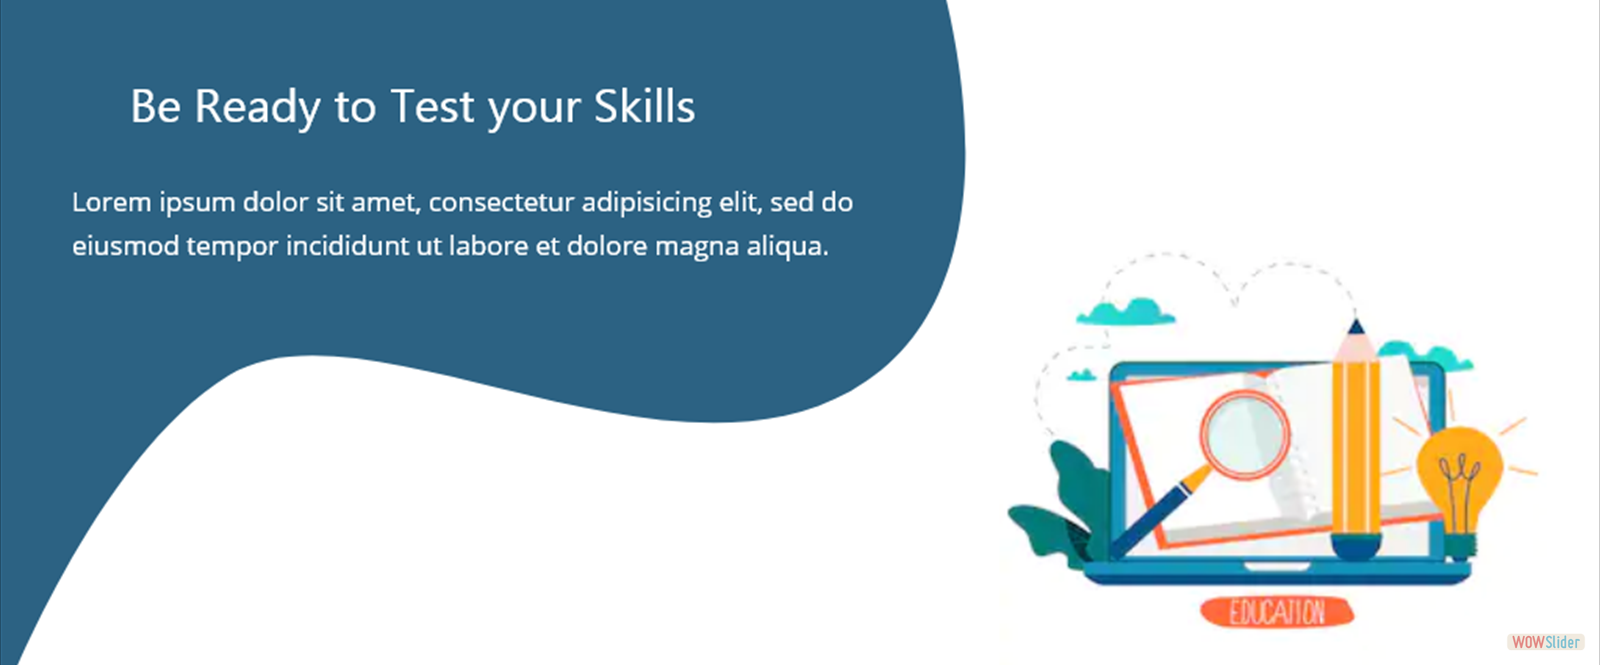
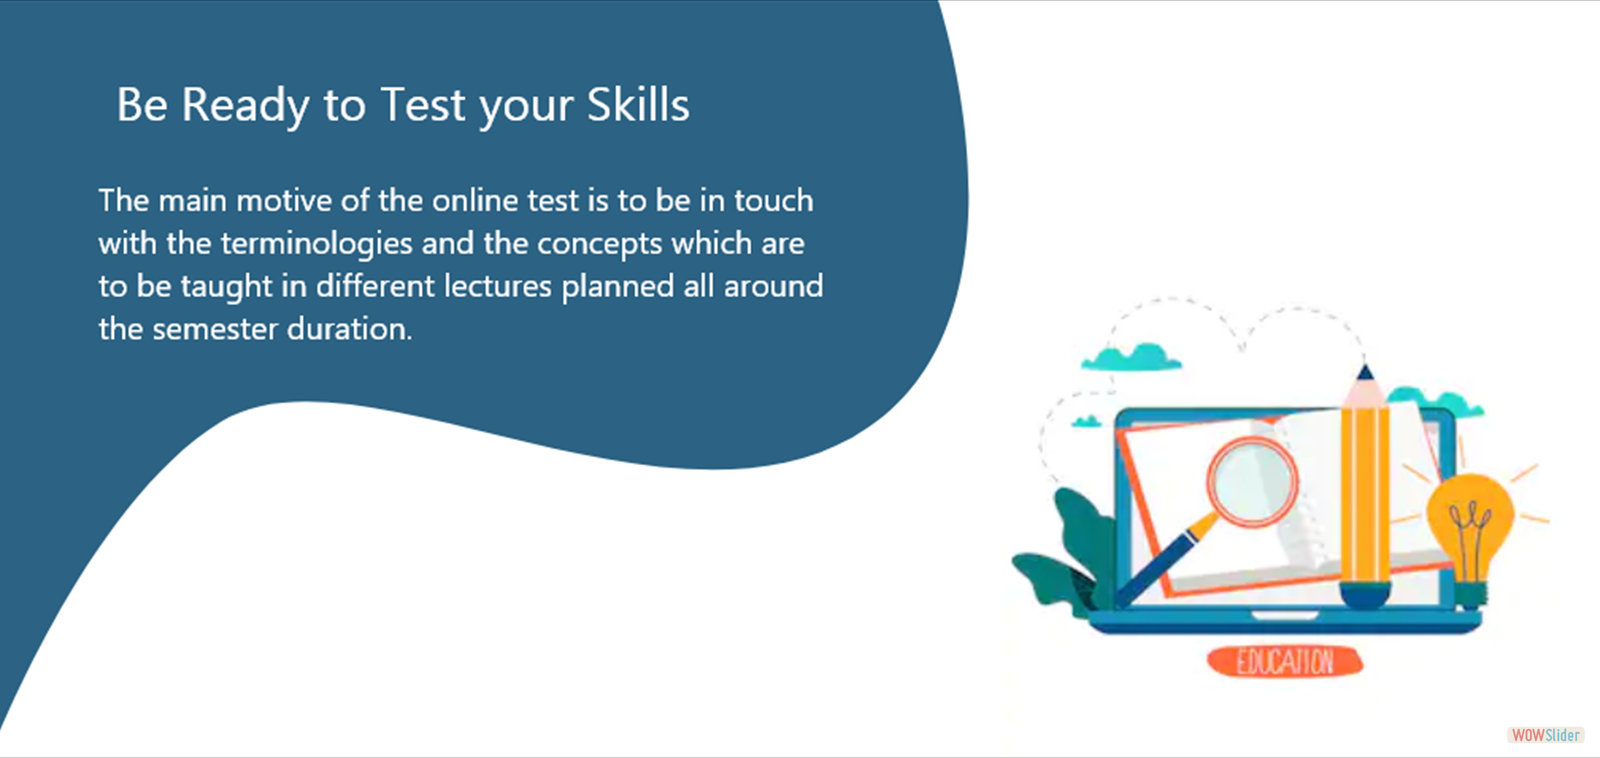
final updates

diff --git a/assets/engine2/style.css b/assets/engine2/style.css
@@ -17,12 +17,12 @@
[1 lines of base64/hex data omitted]
 }
 #wowslider-container2 { 
-	display: table;
+	display: block;
 	zoom: 1; 
 	position: relative;
 	width: 100%;
 	max-width: 100%;
-	max-height:550px;
+	max-height:none;
 	margin:0px auto 0px;
 	z-index:90;
 	text-align:left; /* reset align=center */
@@ -34,7 +34,7 @@
 	-moz-box-sizing: content-box;
 	box-sizing: content-box; 
 }
-* html #wowslider-container2{ width:1323px }
+* html #wowslider-container2{ width:1024px }
 #wowslider-container2 .ws_images ul{
 	position:relative;
 	width: 10000%; 
@@ -64,7 +64,7 @@
 	left:0;
 	top:0;
 	height:100%;
-	max-height:550px;
+	max-height:none;
 	max-width: 100%;
 	vertical-align: top;
 	border:none;
@@ -73,7 +73,7 @@
 #wowslider-container2 .ws_images ul a{
 	width:100%;
 	height:100%;
-	max-height:550px;
+	max-height:none;
 	display:block;
 	color:transparent;
 }
@@ -89,7 +89,7 @@
 	margin:0;
 }
 #wowslider-container2 .ws_images > div > img {
-	max-height:550px;
+	max-height:none;
 }
 
 #wowslider-container2 .ws_images iframe {
@@ -146,6 +146,123 @@
 	background: #A6A5A9;
 }
 
+
+#wowslider-container2.ws_gestures {
+	cursor: -webkit-grab;
+	cursor: -moz-grab;
[1 lines of base64/hex data omitted]
+}
+#wowslider-container2.ws_gestures.ws_grabbing {
+	cursor: -webkit-grabbing;
+	cursor: -moz-grabbing;
[1 lines of base64/hex data omitted]
+}
+
+/* hide controls when video start play */
+#wowslider-container2.ws_video_playing .ws_bullets,
+#wowslider-container2.ws_video_playing .ws_fullscreen,
+#wowslider-container2.ws_video_playing .ws_next,
+#wowslider-container2.ws_video_playing .ws_prev {
+	display: none;
+}
+
+
+/* youtube/vimeo buttons */
+#wowslider-container2 .ws_video_btn {
+	position: absolute;
+	display: none;
+	cursor: pointer;
+	top: 0;
+	left: 0;
+	width: 100%;
+	height: 100%;
+	z-index: 55;
+}
+#wowslider-container2 .ws_video_btn.ws_youtube,
+#wowslider-container2 .ws_video_btn.ws_vimeo {
+	display: block;
+}
+#wowslider-container2 .ws_video_btn div {
+	position: absolute;
+	background-image: url(./playvideo.png);
+	background-size: 200%;
+	top: 50%;
+	left: 50%;
+	width: 7em;
+	height: 5em;
+	margin-left: -3.5em;
+	margin-top: -2.5em;
+}
+#wowslider-container2 .ws_video_btn.ws_youtube div {
+	background-position: 0 0;
+}
+#wowslider-container2 .ws_video_btn.ws_youtube:hover div {
+	background-position: 100% 0;
+}
+#wowslider-container2 .ws_video_btn.ws_vimeo div {
+	background-position: 0 100%;
+}
+#wowslider-container2 .ws_video_btn.ws_vimeo:hover div {
+	background-position: 100% 100%;
+}
+
+#wowslider-container2 .ws_playpause.ws_hide {
+	display: none !important;
+}
+/* bullets */
+#wowslider-container2  .ws_bullets { 
+	padding: 0px; 
+}
+#wowslider-container2 .ws_bullets a { 
+	position:relative;
+	display: inline-block;
+	width: 0;
+	margin: 3px 5px;
+	padding: 8px;	
+
+	-webkit-perspective: 80px;
+	perspective: 80px;
+} 
+#wowslider-container2 .ws_bullets a > span {
+	position:absolute;
+	display: block;
+	top:0;
+	right: 0;
+	height:100%;
+	width:100%;
+	-webkit-transform-style: preserve-3d;
+	transform-style: preserve-3d;
+
+	-webkit-transition: -webkit-transform 0.5s ease;
+  	transition: -webkit-transform 0.5s ease, transform 0.5s ease;
+}
+
+#wowslider-container2 .ws_bullets a > span:before,
+#wowslider-container2 .ws_bullets a > span:after {
+	content: '';
+	display: block;
+	height:100%;
+	background: #54ACD2;
+
+  	-webkit-transform: rotateX(-90deg) translateZ(-8px) translateY(8px);
+  	transform: rotateX(-90deg) translateZ(-8px) translateY(8px);
+}
+#wowslider-container2 .ws_bullets a > span:after {
+	position: absolute;
+	top: 0;
+	left: 0;
+	width: 100%;
+	height: 100%;
+  	background: #1A2223;
+  	-webkit-transform: rotateX(0deg);
+  	transform: rotateX(0deg);
+}
+
+#wowslider-container2 .ws_bullets a.ws_overbull > span,
+#wowslider-container2 .ws_bullets a.ws_selbull > span {
+    -webkit-transform: rotateX(-90deg) translateZ(8px) translateY(8px);
+    transform: rotateX(-90deg) translateZ(8px) translateY(8px);
+}
 
 
 
@@ -291,7 +408,7 @@
 	display:block;
 	text-indent:0;
 	bottom:15px;
-	left:-58px;
+	left:-51px;
 	visibility:hidden;
 	max-width:none;
 }
@@ -308,7 +425,7 @@
 	left:0;
 	overflow:hidden;
 	position:relative;
-	width:115px;
+	width:101px;
 }
 #wowslider-container2  .ws_bullets .ws_bulframe{
 	position:absolute;

diff --git a/assets/engine2/script.js b/assets/engine2/script.js
@@ -18,4 +18,4 @@ jQuery.extend(jQuery.easing,{easeInOutQuart:function(e,f,a,h,g){if((f/=g/2)<1){r
 // Obfuscated by Javascript Obfuscator
 // http://javascript-source.com
 //***********************************************
-jQuery("#wowslider-container2").wowSlider({effect:"carousel",prev:"",next:"",duration:20*100,delay:20*100,width:1323,height:550,autoPlay:true,autoPlayVideo:false,playPause:true,stopOnHover:false,loop:false,bullets:1,caption:true,captionEffect:"parallax",controls:true,controlsThumb:false,responsive:2,fullScreen:false,gestures:2,onBeforeStep:0,images:0});
+jQuery("#wowslider-container2").wowSlider({effect:"carousel",prev:"",next:"",duration:20*100,delay:20*100,width:1024,height:485,autoPlay:true,autoPlayVideo:false,playPause:true,stopOnHover:false,loop:false,bullets:1,caption:true,captionEffect:"parallax",controls:true,controlsThumb:false,responsive:3,fullScreen:false,gestures:2,onBeforeStep:0,images:0});

diff --git a/index.php b/index.php
@@ -9,6 +9,7 @@ if($obj->isCookieSet()){
 	Functions::redirect('includes/dashboard.php');
 }
 else{
+
 ?>
 	<html>
 
@@ -126,19 +127,15 @@ else{
 		<meta name="author" content="">
 		<title>Aptifiers!</title>
 		<link rel="shortcut icon" href="assets/data2/images/faviconb.png" />
-		<!-- Start WOWSlider.com HEAD section -->
-		<link rel="stylesheet" type="text/css" href="assets/engine2/style.css" />
-		<script type="text/javascript" src="assets/engine2/jquery.js"></script>
-		<!-- End WOWSlider.com HEAD section -->
+		
 		<link rel="stylesheet" href="assets/css/bootstrap2.min.css">
 		<link href="https://fonts.googleapis.com/css?family=Ubuntu" rel="stylesheet">
 
-
-		<!-- Start WOWSlider.com HEAD section -->
-		<!-- add to the <head> of your page -->
-		<link rel="stylesheet" type="text/css" href="assets/engine2/style.css" />
-		<!--script type="text/javascript" src="engine2/jquery.js"></script-->
-		<!-- End WOWSlider.com HEAD section -->
+<!-- Start WOWSlider.com HEAD section -->
+<link rel="stylesheet" type="text/css" href="assets/engine2/style.css" />
+<script type="text/javascript" src="assets/engine2/jquery.js"></script>
+<!-- End WOWSlider.com HEAD section -->
+		
 	</head>
 
 	<body style="">
@@ -167,19 +164,17 @@ else{
 		<section id="home">
 
 			<!-- Start WOWSlider.com BODY section -->
-			<div id="wowslider-container2">
-				<div class="ws_images">
-					<ul>
-						<li><img src="assets/data2/images/web_1280__1.png" alt="Web 1280 – 1" id="wows2_0" /></li>
-						<li><a href="http://wowslider.net"><img src="assets/data2/images/web_1280__2.png" alt="bootstrap slideshow" id="wows2_1"/></a></li>
-						<li><img src="assets/data2/images/web_1280__3.png" alt="Web 1280 – 3" id="wows2_2" /></li>
-					</ul>
-				</div>
-
-			</div>
-			<script type="text/javascript" src="assets/engine2/wowslider.js"></script>
-			<script type="text/javascript" src="assets/engine2/script.js"></script>
-			<!-- End WOWSlider.com BODY section -->
+<div id="wowslider-container2">
+<div class="ws_images"><ul>
+		<li><img src="assets/data2/images/web_1280__3.png" alt="Web 1280 – 3"  id="wows2_0"/></li>
+		<li><a href="http://wowslider.net"><img src="assets/data2/images/web_1280__1.png" alt="bootstrap carousel example" id="wows2_1"/></a></li>
+		<li><img src="assets/data2/images/web_1280__2.png" alt="Web 1280 – 2" id="wows2_2"/></li>
+	</ul></div>
+	
+</div>	
+<script type="text/javascript" src="assets/engine2/wowslider.js"></script>
+<script type="text/javascript" src="assets/engine2/script.js"></script>
+<!-- End WOWSlider.com BODY section -->
 
 
 		</section>
@@ -196,7 +191,7 @@ else{
 		<div class="container-fluid" id="about">
 			<h1 style="text-align: center;margin-top:120px;color:#04456B;letter-spacing: 3px;font-weight:350 ">ABOUT US</h1>
 			<p style="text-align: center;margin-top:25px;color:#04456B;font-weight:350;font-size: 18px;">A Place where a student can test its skills!</p>
-			<p style="text-align:center;margin:25px 150px 15px 150px;color:#04456B;font-weight:350;font-size:16px;">Lorem ipsum dolor sit amet, consectetur adipisicing elit. Fuga iusto placeat sed similique alias iure quidem reprehenderit ab, eligendi, dolores esse magnam? Cumque possimus alias, dicta quaerat magni, labore distinctio! ipsum dolor sit amet, consectetur adipisicing elit. Ducimus nobis veniam reprehenderit assumenda mollitia vel laudantium ratione error dolor sequi repudiandae voluptates obcaecati similique cumque repellendus non, porro, eos placeat.</p>
+			<p style="text-align:center;margin:25px 150px 15px 150px;color:#04456B;font-weight:350;font-size:16px;">More than 75% colleges conduct online tests for the students between there official term tests just to make sure that the students are in touch with the terminologies and the concepts which are to be taught in different lectures planned all around the semester duration. Most of these tests are conducted online either on the official websites of these colleges or onto some online portal whereas our college uses Google forms to conduct such tests. While conducting these tests there are a number of mishaps faced by the students and the teachers as well. One major problem faced by the faculty is the process of retrieving data and the credibility of the students appearing for the tests. We aim to work on these 2 broad areas for the project. We will implement face recognition for ensuring that the expected student is giving the test. This particular software will prevent cheating in these examinations, the overhead of using Google forms (once the data set is saved it can be used until the syllabus is changed) and promote integrity, credibility, data retrieval and the efficiency of conducting tests.</p>
 		</div>
 
 		<footer id="contact" style="margin-top:150px;">
@@ -261,13 +256,14 @@ else{
 
 
 		</footer>
-<script src='//vws.responsivevoice.com/v/e?key=Oz1qUWj6'></script>
+
 	</body>
 
 	</html>
 
 
 	<?php
+
 }
 if(isset($_POST['send_enquiry_msg'])){
 
@@ -283,25 +279,26 @@ if(isset($_POST['send_enquiry_msg'])){
           
             <br>
             <br>
-			  <img src='cid:logo' alt='hahahahah'>
+			
             </div>";
 	$mailer->send_mail("handlesquizlikeaboss@gmail.com",$body,$subject);
 	
 	$subject="Your Enquiry is under Process";
 	$body = "<div style='font-family:Roboto; font-size:16px; max-width: 600px; line-height: 21px;'>     <h4>Hello,</h4>
-            <h3>Hello, We're from The Aptifier!</h3>
+            <h3> We're from The Aptifier!</h3>
             <br>  
             <p style='text-decoration:none; color:#fff; background-color:#08476E;border:solid #08476E; border-width:2px 10px; line-height:2;font-weight:bold; text-align:center; display:inline-block;border-radius:4px'>
             We,ve received your enquiry,our representative will get back to you soon! </p>
             <br>  
-            <h3>Thank you for choosing The Aptifiers!.</h3>
+            <h3>Thank you for choosing The Aptifier!</h3>
             <br>
             <br>
             <h4>Sincerely,</h4>
             <h5>The Aptifier Team.</h5>
-			  <img src='cid:logo' alt='hahahahah'>
+			  
             </div>";
 	
 	$mailer->send_mail($email,$body,$subject);
 }
+
 ?>

diff --git a/classes/User.php b/classes/User.php
@@ -208,7 +208,7 @@
 
         $subject = "Aptifer Change Password Confirmation";
 
-        $base_url_link ="http://localhost/quiz-handlers/includes/resetPassword.php?XSRS=$email&action=reset";
+        $base_url_link ="http://localhost/aptifier/includes/resetPassword.php?XSRS=$email&action=reset";
        $body = "http://localhost/aptifier/includes/register.php?XSRS=$email";
         $body = "<div><table border='0' cellpadding='0' cellspacing='0' height='100%' style='font-family:&quot;Arial&quot;' width='100%'><tbody><tr><td align='center' valign='top'><table border='0' cellpadding='0' cellspacing='0' style='font-family:&quot;Arial&quot;;border:1px solid #b2b2b2' width='600'><tbody><tr><td align='center' valign='top'><table border='0' cellpadding='0' cellspacing='0' style='font-family:&quot;Arial&quot;;background-color:#fff;font-size:14px;color:#46535e;border-radius:3px;' width='100%'><tbody><tr><td align='left' valign='top'><div style='color:#fff;background:white;padding:0px 20px 0px 20px;text-align:center;'><img align='center' height='auto' src='cid:logo' style='height:auto'></div><hr><div style='margin:0 30px 36px 30px'><span style='display:block;margin:0 0 18px 0;font-size:14px;line-height:2;color:black'><h3>Hi $email,</h3><br>Change your Aptifier Password here,click the link below </span><div style='margin:0 auto;display:table'><a style='font-size:14px;border-radius:3px;display:inline-block;text-decoration:none;color:#fff;text-align:center;padding:15px 20px;width:180px;background-color:#08476E' href='$base_url_link'><img src='cid:favicon' alt='' style='width: 30px;height: 40px;'></a></div></div><div style='line-height:2;margin:30px 0 18px 30px;color:black'>Thank you for registering<br><div>Sincerely,</div><div>Team Aptifier</div></div></td></tr></tbody></table></td></tr><tr><td align='center' valign='top'><table border='0' cellpadding='0' cellspacing='0' style='font-family:&quot;Arial&quot;;font-size:12px;color:#666;padding-top:30px' width='100%'><tbody><tr><td align='left' style='padding:0 20px;font-size:12px;color:#90979e' valign='top'></td></tr><tr><td style='background-color: lightgray;border-top:1px solid #b2b2b2 '><p  style='margin-left: 85px;padding-bottom: 20px;padding-top: 20px;color:gray;'>This email was sent to <span style='color:#08476E'>$email</span> to confirm your Aptifier Change Password.</p></td></tr></tbody></table></td></tr></tbody></table></td></tr></tbody></table></div>";
 

diff --git a/includes/login.php b/includes/login.php
@@ -137,22 +137,10 @@ if(isset($_GET['p'])){
       <div class="row justify-content-center">
         <div class="col-lg-5 col-md-7">
           <div class="card bg-secondary shadow border-0">
-            <div class="card-header bg-transparent pb-5">
-              <div class="text-muted text-center mt-2 mb-3"><small>Sign in with</small></div>
-              <div class="btn-wrapper text-center">
-                <a href="#" class="btn btn-neutral btn-icon">
-                  <span class="btn-inner--icon"><img src="../assets/img/icons/common/github.svg"></span>
-                  <span class="btn-inner--text">Github</span>
-                </a>
-                <a href="#" class="btn btn-neutral btn-icon">
-                  <span class="btn-inner--icon"><img src="../assets/img/icons/common/google.svg"></span>
-                  <span class="btn-inner--text">Google</span>
-                </a>
-              </div>
-            </div>
+        
             <div class="card-body px-lg-5 py-lg-5">
               <div class="text-center text-muted mb-4">
-                <small>Or sign in with credentials</small>
+                <small> Sign in with credentials</small>
               </div>
               <form role="form" method="post" action="#">
                 <div class="form-group mb-3">

diff --git a/includes/changePassword.php b/includes/changePassword.php
@@ -27,9 +27,9 @@ if(isset($_POST['recovery_submit']) && (isset($_GET['action']) == "reset")){
   <meta name="viewport" content="width=device-width, initial-scale=1, shrink-to-fit=no">
   <meta name="description" content="">
   <meta name="author" content="">
-  <title>Quiz Handlers</title>
+  <title>Aptifier |  Change Password</title>
   <!-- Favicon -->
-  <link href="../assets/img/brand/favicon.png" rel="icon" type="image/png">
+  <link href="../assets/data2/images/faviconb.png" rel="icon" type="image/png">
   <!-- Fonts -->
 <!--  <link href="https://fonts.googleapis.com/css?family=Open+Sans:300,400,600,700" rel="stylesheet">-->
   <!-- Icons -->
